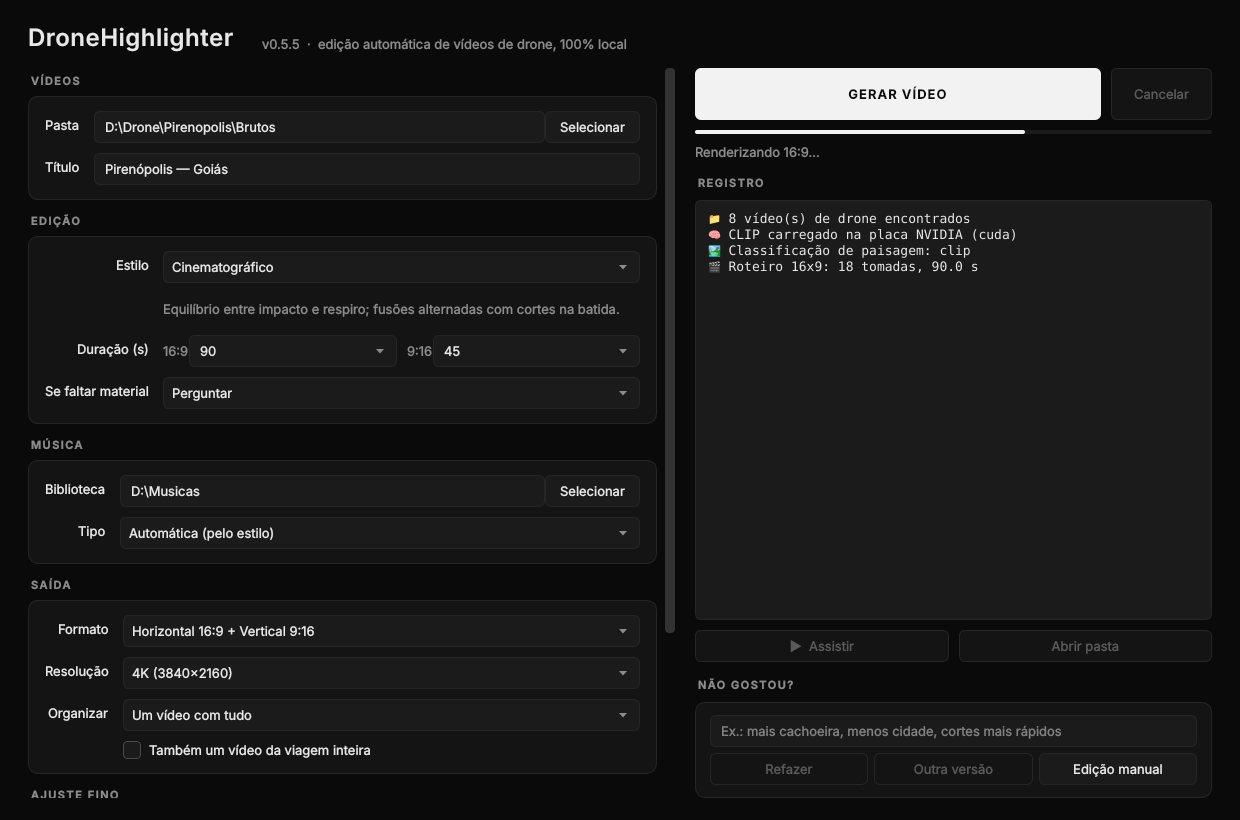
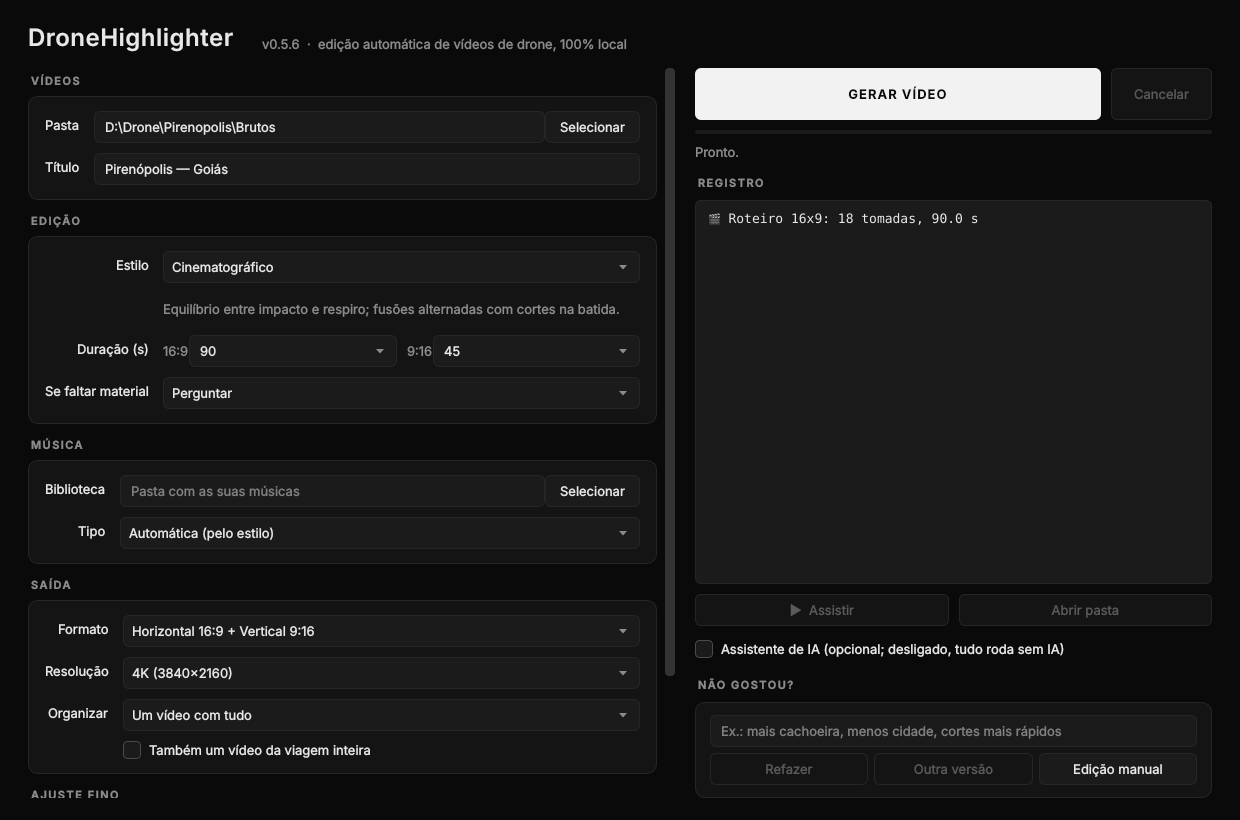
DroneHighlighter 0.5.6: no rebuild inside item handlers; AI switch on the right
- Windows CI caught a real crash: releasing a dragged block rebuilt the
  scene, deleting that block while Qt was still in its mouse handler. The
  rebuilds after a drag, a double-click, a context menu or a drop in the
  sequence now run right after the handler returns.
- The AI assistant is a single switch in the right column (between
  Assistir/Abrir pasta and Não gostou?); its settings show only when on,
  instead of an empty box.

Claude-Session: https://claude.ai/code/session_01KWykstCsnyUYZyLGH1xCE1

diff --git a/drone/gui.py b/drone/gui.py
@@ -16,7 +16,7 @@ import traceback
 from PySide6.QtCore import QObject, QSettings, Qt, QThread, QUrl, Signal
 from PySide6.QtGui import QDesktopServices, QFont
 from PySide6.QtWidgets import (QApplication, QCheckBox, QComboBox, QFileDialog, QFormLayout,
-                               QFrame, QGroupBox, QHBoxLayout, QLabel, QLineEdit, QMainWindow,
+                               QFrame, QHBoxLayout, QLabel, QLineEdit, QMainWindow,
                                QMessageBox, QPlainTextEdit, QProgressBar, QPushButton,
                                QScrollArea, QVBoxLayout, QWidget)
 
@@ -264,7 +264,6 @@ class MainWindow(QMainWindow):
         self.use_clip = QCheckBox("Reconhecer paisagens com IA local (CLIP)")
         self.use_clip.setChecked(self.settings.value("use_clip", "true") == "true")
         form.addRow("", self.use_clip)
-        lay.addWidget(self._build_ai_box())
         lay.addStretch()
 
         # ---- right: run, progress, log, results
@@ -313,6 +312,9 @@ class MainWindow(QMainWindow):
         orow.addWidget(self.open_folder)
         right.addLayout(orow)
 
+        right.addSpacing(4)
+        right.addWidget(self._build_ai_box())
+        right.addSpacing(4)
         right.addWidget(role(QLabel("NÃO GOSTOU?"), "section"))
         redo = role(QFrame(), "card")
         rl = QVBoxLayout(redo)
@@ -342,14 +344,20 @@ class MainWindow(QMainWindow):
         self.variation = 0
         self.setCentralWidget(root)
 
-    def _build_ai_box(self) -> QGroupBox:
-        """Optional assistant — a checkable box that starts unchecked."""
+    def _build_ai_box(self) -> QWidget:
+        """Optional assistant: one switch; its settings card appears only when on."""
         cfg = DroneConfig.load().ai
-        box = QGroupBox("ASSISTENTE DE IA (OPCIONAL, DESLIGADO = TUDO SEM IA)")
-        box.setCheckable(True)
-        box.setChecked(cfg.enabled)
-        self.ai_box = box
-        f = QFormLayout(box)
+        wrap = QWidget()
+        wl = QVBoxLayout(wrap)
+        wl.setContentsMargins(0, 0, 0, 0)
+        wl.setSpacing(6)
+        self.ai_box = QCheckBox("Assistente de IA (opcional; desligado, tudo roda sem IA)")
+        self.ai_box.setChecked(cfg.enabled)
+        wl.addWidget(self.ai_box)
+        card = role(QFrame(), "card")
+        f = QFormLayout(card)
+        f.setContentsMargins(14, 12, 14, 12)
+        f.setLabelAlignment(Qt.AlignRight | Qt.AlignVCenter)
         self.ai_provider = QComboBox()
         for key, p in PROVIDERS.items():
             self.ai_provider.addItem(p.label, key)
@@ -365,38 +373,25 @@ class MainWindow(QMainWindow):
         test = QPushButton("Testar conexão")
         test.clicked.connect(self._test_ai)
         self.ai_provider.currentIndexChanged.connect(self._provider_hints)
-        f.addRow("Provedor:", self.ai_provider)
-        f.addRow("Modelo:", self.ai_model)
-        f.addRow("Endereço:", self.ai_url)
-        f.addRow("Chave da API:", self.ai_key)
+        f.addRow("Provedor", self.ai_provider)
+        f.addRow("Modelo", self.ai_model)
+        f.addRow("Endereço", self.ai_url)
+        f.addRow("Chave da API", self.ai_key)
+        f.addRow("", self.ai_interpret)
+        f.addRow("", self.ai_direct)
         row = QHBoxLayout()
-        row.addWidget(self.ai_interpret)
-        row.addWidget(self.ai_direct)
-        row.addStretch()
         row.addWidget(test)
+        row.addStretch()
         f.addRow("", row)
-        note = QLabel("A IA recebe só texto (instruções e uma tabela dos trechos). "
-                      "Nunca imagens nem vídeo. A chave fica salva só neste PC.")
+        note = role(QLabel("A IA recebe só texto (instruções e uma tabela dos trechos), nunca imagens "
+                           "nem vídeo. A chave fica salva só neste PC."), "muted")
         note.setWordWrap(True)
-        note.setProperty("role", "muted")
         f.addRow("", note)
+        wl.addWidget(card)
         self._provider_hints()
-        inner = [box.layout().itemAt(i).widget() for i in range(box.layout().count())]
-
-        def _fold(on):
-            for w in inner:
-                if w is not None:
-                    w.setVisible(on)
-            for i in range(box.layout().count()):
-                item = box.layout().itemAt(i)
-                if item.layout() is not None:
-                    for j in range(item.layout().count()):
-                        w = item.layout().itemAt(j).widget()
-                        if w is not None:
-                            w.setVisible(on)
-        box.toggled.connect(_fold)
-        _fold(box.isChecked())
-        return box
+        self.ai_box.toggled.connect(card.setVisible)
+        card.setVisible(self.ai_box.isChecked())
+        return wrap
 
     def _provider_hints(self):
         p = PROVIDERS[self.ai_provider.currentData()]

diff --git a/drone/editor_window.py b/drone/editor_window.py
@@ -225,8 +225,8 @@ class SequenceStrip(QListWidget):
             return
         dst = slot - 1 if slot > src else slot
         dst = max(0, min(self.count() - 1, dst))
-        if dst != src:
-            self.moved.emit(src, dst)
+        if dst != src:                        # after the drop returns: the cards get rebuilt
+            QTimer.singleShot(0, lambda: self.moved.emit(src, dst))
 
 
 def _pixmap_from_jpeg(data: bytes) -> QPixmap:
@@ -403,11 +403,13 @@ class ShotItem(QGraphicsRectItem):
     def mouseReleaseEvent(self, e):
         if self._mode is not None:
             self._mode = None
-            self.editor.commit_drag()
+            # later, not now: the rebuild deletes this very item while Qt is still inside its handler
+            QTimer.singleShot(0, self.editor.commit_drag)
         e.accept()
 
     def contextMenuEvent(self, e):
-        self.editor.shot_menu(self.index, e.screenPos())
+        i, pos = self.index, e.screenPos()
+        QTimer.singleShot(0, lambda: self.editor.shot_menu(i, pos))
 
 
 class CandidateItem(QGraphicsRectItem):
@@ -426,10 +428,12 @@ class CandidateItem(QGraphicsRectItem):
                         f"selecionada · botão direito: mais opções")
 
     def mouseDoubleClickEvent(self, e):
-        self.editor.add_candidate(self.cand)
+        cand = self.cand
+        QTimer.singleShot(0, lambda: self.editor.add_candidate(cand))
 
     def contextMenuEvent(self, e):
-        self.editor.candidate_menu(self.cand, e.screenPos())
+        cand, pos = self.cand, e.screenPos()
+        QTimer.singleShot(0, lambda: self.editor.candidate_menu(cand, pos))
 
 
 class TimelineView(QGraphicsView):

diff --git a/tests/test_drone_manual_edit.py b/tests/test_drone_manual_edit.py
@@ -330,6 +330,7 @@ def test_dragging_a_block_with_the_mouse(session, tmp_path):
         QTest.mouseMove(w.view.viewport(), c + QPoint(dx, 0))
     QTest.mouseRelease(w.view.viewport(), Qt.LeftButton, Qt.NoModifier, c + QPoint(40, 0))
     app.processEvents()
+    app.processEvents()
     assert w.plan.shots[0].start > s0 + 20 / w.pps          # moved with the mouse
     r = w.shot_items[0].rect()
     e = w.view.mapFromScene(r.right() - 2, r.center().y())
